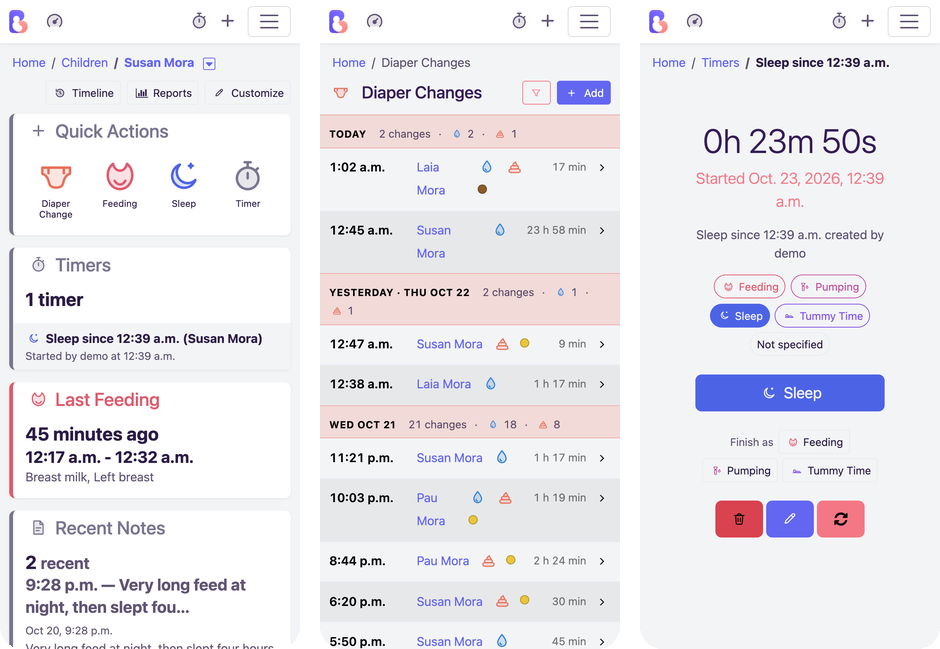
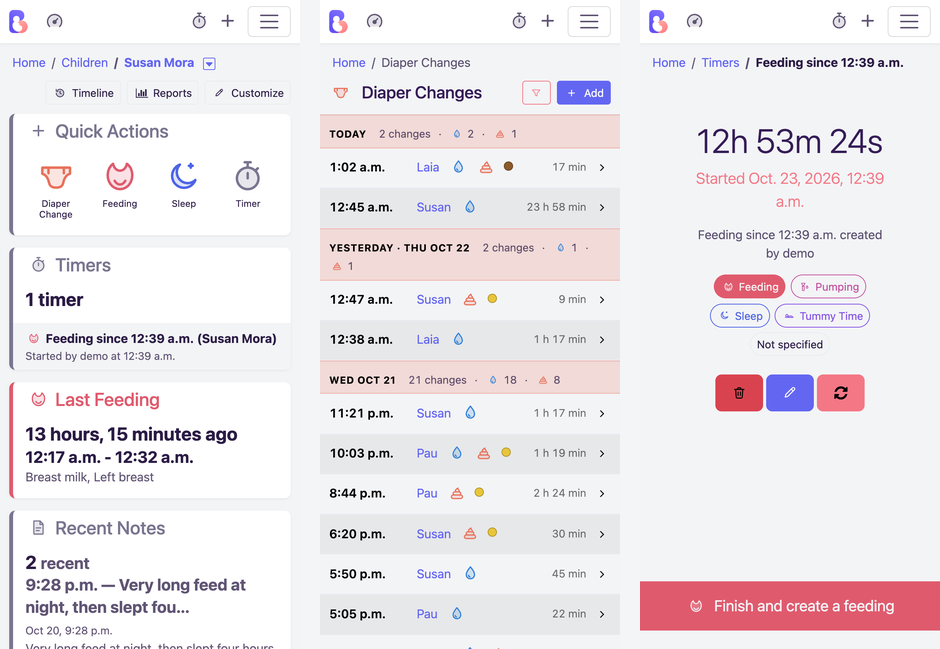
docs: screenshots and README for the repeat entries, the timer and the permissions
The phone strip shows the new finish button of the timer page; two
images join it: the medication form with "Same as before" and the user
form with the permission matrix, which the user guide shows too. The
README's list of differences gains the repeat entries, the finish
button and the permissions per user.

diff --git a/README.md b/README.md
@@ -14,13 +14,18 @@ Babubi is a fork of [Baby Buddy](https://github.com/babybuddy/babybuddy). It sta
 
 ![On a phone, in the light theme: the dashboard, the diaper changes grouped by day and a running timer](screenshot_mobile.png)
 
+![The medication form with the recent treatments to repeat above it](docs/assets/images/form_presets.png)
+
+![The user form with the permission matrix, in the dark theme](docs/assets/images/user_permissions.png)
+
 ## How Babubi differs from Baby Buddy
 
 - **A dashboard per child, arranged by each caregiver**: three columns of cards to order, hide and bring back, a card of quick actions drawn like a phone's home screen, graph cards with any report, and a percentiles card with the exact WHO percentiles of the latest weight, height and head circumference.
 - **Child-first menu.** The menu starts with the child whose dashboard was opened last and leads back to it; the other children are one tap away.
-- **Timers that know what they time.** A timer is started as a feeding, pumping, sleep or tummy time timer, from the quick actions, the phone's stopwatch button or the Timers menu, and finishes as that activity in one tap.
+- **Timers that know what they time.** A timer is started as a feeding, pumping, sleep or tummy time timer, from the quick actions, the phone's stopwatch button or the Timers menu, and one button finishes it and opens that activity's form filled in.
 - **Lists grouped by day**, with a summary row per day, the time since the previous entry, and sleep drawn as bars with its nap or night badge.
-- **Frequent values under form fields**: the medication names, doses and intervals, the amounts and the short notes used before, filled in with a click.
+- **Frequent values under form fields**: the medication names, doses and intervals, the amounts and the short notes used before, filled in with a click. Above the medication and feeding forms, **"Same as before"** repeats a recent treatment or feeding, every field at once.
+- **Permissions per user**, in the user form: a matrix of what each user may read and write, per activity and measurement, with an "All" per column that also covers kinds added later. It sets Django's model permissions, so the web interface, the API and the MCP server all honour it.
 - **WHO head circumference charts** for boys and girls, next to the weight and height ones; a child's sex picks the right charts.
 - **A colour and an icon per activity**, light, dark and automatic themes, and a baby placeholder drawn from the logo.
 - **Own container image**, published at `ghcr.io/icon42/babubi` for amd64 and arm64 and rebuilt every week so its base gets security fixes. It runs as an unprivileged user.

diff --git a/docs/user-guide/managing-users.md b/docs/user-guide/managing-users.md
@@ -20,6 +20,8 @@
 
 ## Permissions
 
+![The user form with the permission matrix](../assets/images/user_permissions.png)
+
 A user is either an **Administrator**, who can do everything, users and site
 settings included, or an ordinary user whose access is set in the
 **Permissions** table of the user form: one row per kind of entry (the
